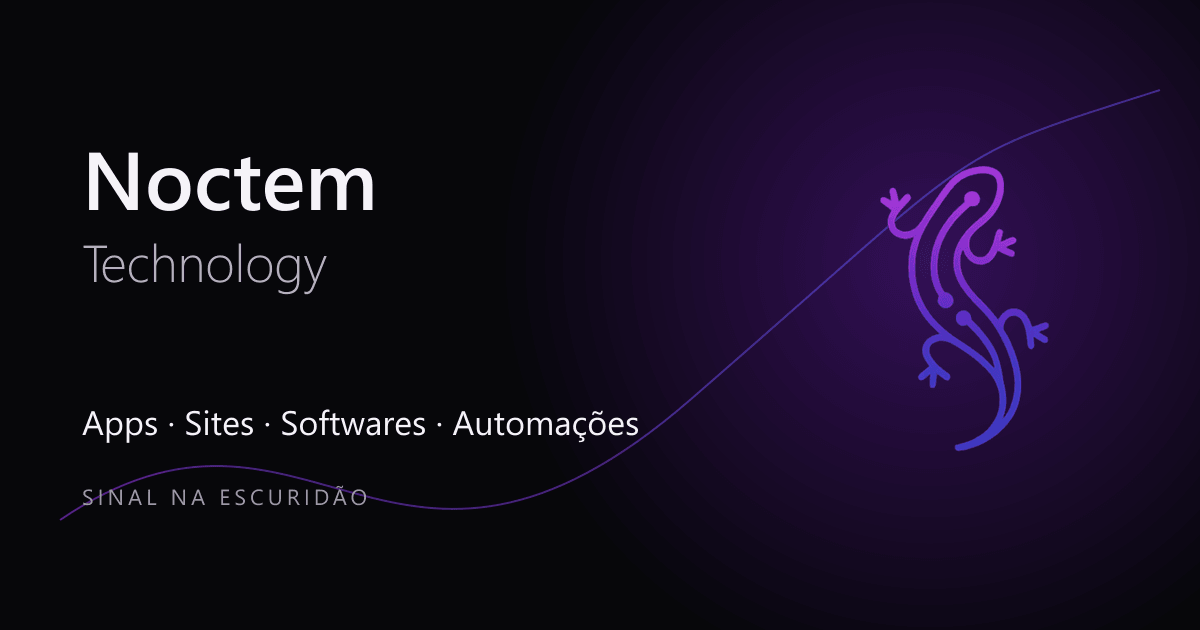
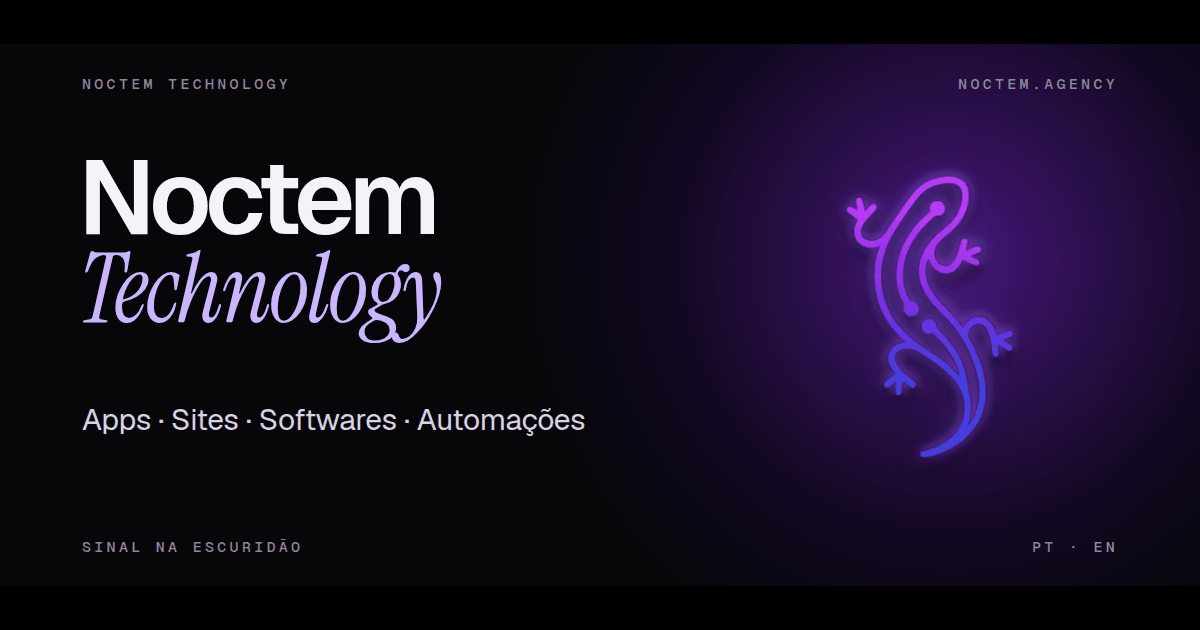
Render the Open Graph card with the site's typefaces
sharp's SVG renderer cannot load web fonts, so og.png fell back to system
fonts. The card is now rendered in Chromium with Geist, Geist Mono and
Instrument Serif (npm run assets:og) and saved as a palette PNG.

Claude-Session: https://claude.ai/code/session_01PtWjrq8bWeC24nDAiVpMjy

diff --git a/README.md b/README.md
@@ -35,7 +35,8 @@ npm run dev          # http://localhost:4321
 | `npm run test:e2e` | Playwright em desktop, tablet e mobile |
 | `npm run validate` | check + testes unitários + build |
 | `npm run validate:full` | `validate` + E2E (é o que o CI roda) |
-| `npm run assets:generate` | favicon, símbolo, lagartixa do hero com brilho embutido e imagem Open Graph |
+| `npm run assets:generate` | favicon, símbolo e lagartixa do hero com brilho embutido |
+| `npm run assets:og` | imagem Open Graph, renderizada no Chromium com as fontes do site |
 | `npm run assets:cinema` | frames do showreel, prévias dos serviços e pontos do globo |
 | `npm run assets:capture` | recaptura as telas dos cinco cases (exige os projetos rodando localmente) |
 | `npm run qa:capture` | capturas de página inteira para revisão visual (saída em `.qa/`, fora do Git) |

diff --git a/docs/ASSET_INVENTORY.md b/docs/ASSET_INVENTORY.md
@@ -8,7 +8,7 @@
 | `public/assets/noctem-symbol.webp` | derivado otimizado | cabeçalho, preloader, footer e case |
 | `public/assets/noctem-symbol-hero.webp` | derivado com brilho embutido | lagartixa do hero (evita `drop-shadow` animado) |
 | `public/favicon.png`, `public/favicon.ico` | símbolo oficial | favicon e compatibilidade |
-| `public/og.png` | composição da identidade | Open Graph e social cards |
+| `public/og.png` | composição da identidade com Geist e Instrument Serif (`npm run assets:og`) | Open Graph e social cards |
 
 ## Capturas responsivas
 
